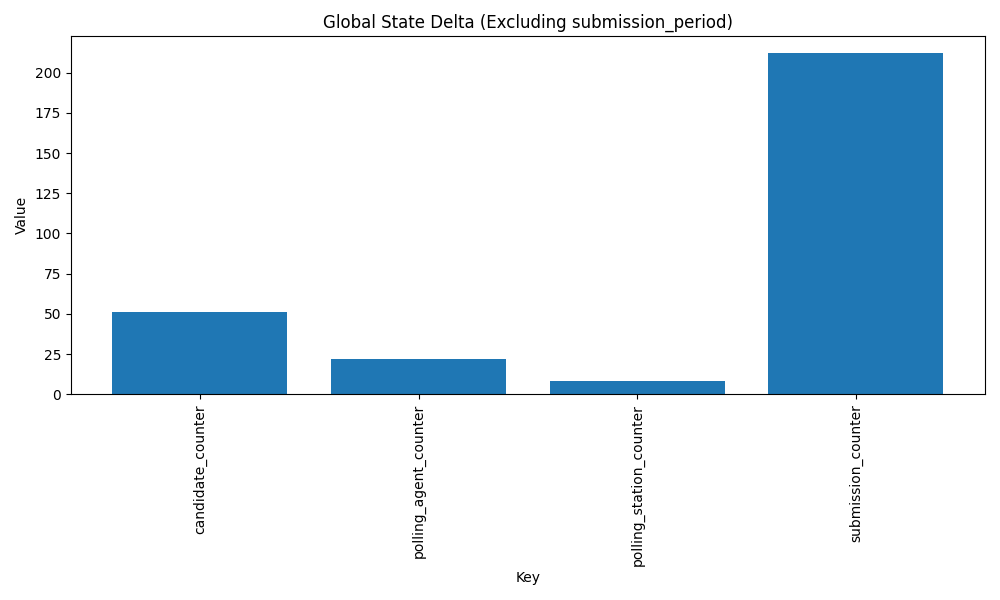
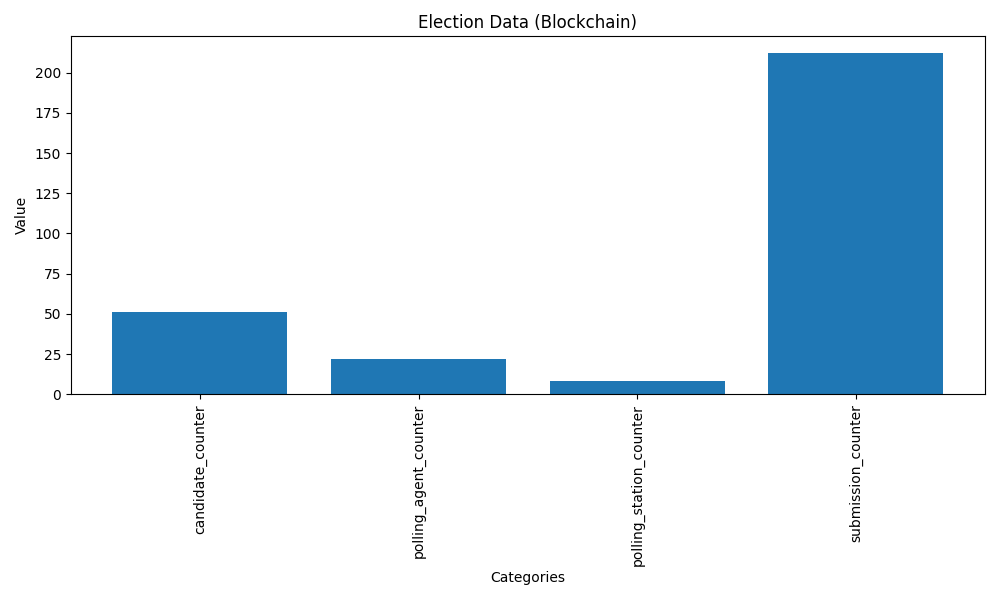
update data interpretation file

Changed region(s): [[0.31, 0.03, 0.744, 0.06], [0.496, 0.93, 0.558, 0.99]]

diff --git a/logic/global-state-transactions.py b/logic/global-state-transactions.py
@@ -1,7 +1,6 @@
 import requests
 import pandas as pd
 import base64
-import json
 import matplotlib.pyplot as plt
 
 # Define the API endpoint
@@ -13,9 +12,14 @@ data = response.json()
 
 # Create an empty list to store the table data
 table_data = []
+# Initialize a counter for the total transactions
+total_transactions = 0
 
 # Loop through transactions and global-state-delta
 for transaction in data["transactions"]:
+    # Increment the total transactions counter
+    total_transactions += 1
+
     for delta in transaction["global-state-delta"]:
         key = base64.b64decode(delta["key"]).decode('utf-8')  # Decode the base64 key
         uint_value = delta["value"]["uint"]
@@ -34,22 +38,24 @@ for transaction in data["transactions"]:
             table_data.append([key, uint_value])
 
 # Create a DataFrame from the table data
-df = pd.DataFrame(table_data, columns=["Key", "Value"])
+df = pd.DataFrame(table_data, columns=["Categories", "Value"])
 
 # Export the DataFrame to a CSV file
-df.to_csv("global_state_delta_filtered.csv", index=False)
+df.to_csv("../files/global_state_delta_filtered.csv", index=False)
 
 # Plot a graph using Matplotlib based on the modified data
 plt.figure(figsize=(10, 6))
-plt.bar(df["Key"], df["Value"])
-plt.xlabel('Key')
+plt.bar(df["Categories"], df["Value"])
+plt.xlabel('Categories')
 plt.ylabel('Value')
-plt.title('Global State Delta (Excluding submission_period)')
+plt.title('Election Data (Blockchain)')
 plt.xticks(rotation=90)
 plt.tight_layout()
 
 # Save the graph as an image
 plt.savefig('../images/global_state_graph_filtered.png')
+
+print("Total Transactions:", total_transactions)
 
 # Print the resulting DataFrame
 print(df)

diff --git a/data-interpretation.md b/data-interpretation.md
@@ -2,6 +2,11 @@
 
 ## Graph of consensus reached and not reached
 
+**Fig 1:1** Consensus Reached
+![image](./images/consensus_reached.png)
+
+The above plot shows a bar chart. The red bar representing **No**(Consensus not reached) and the blue representing **Yes** (Consensus reached).
+The above analysis show that a greater percentage of the vote count did not reach consensus.
 
 ## Graph of the actual data compared to the aggregation of consensus reached
 
